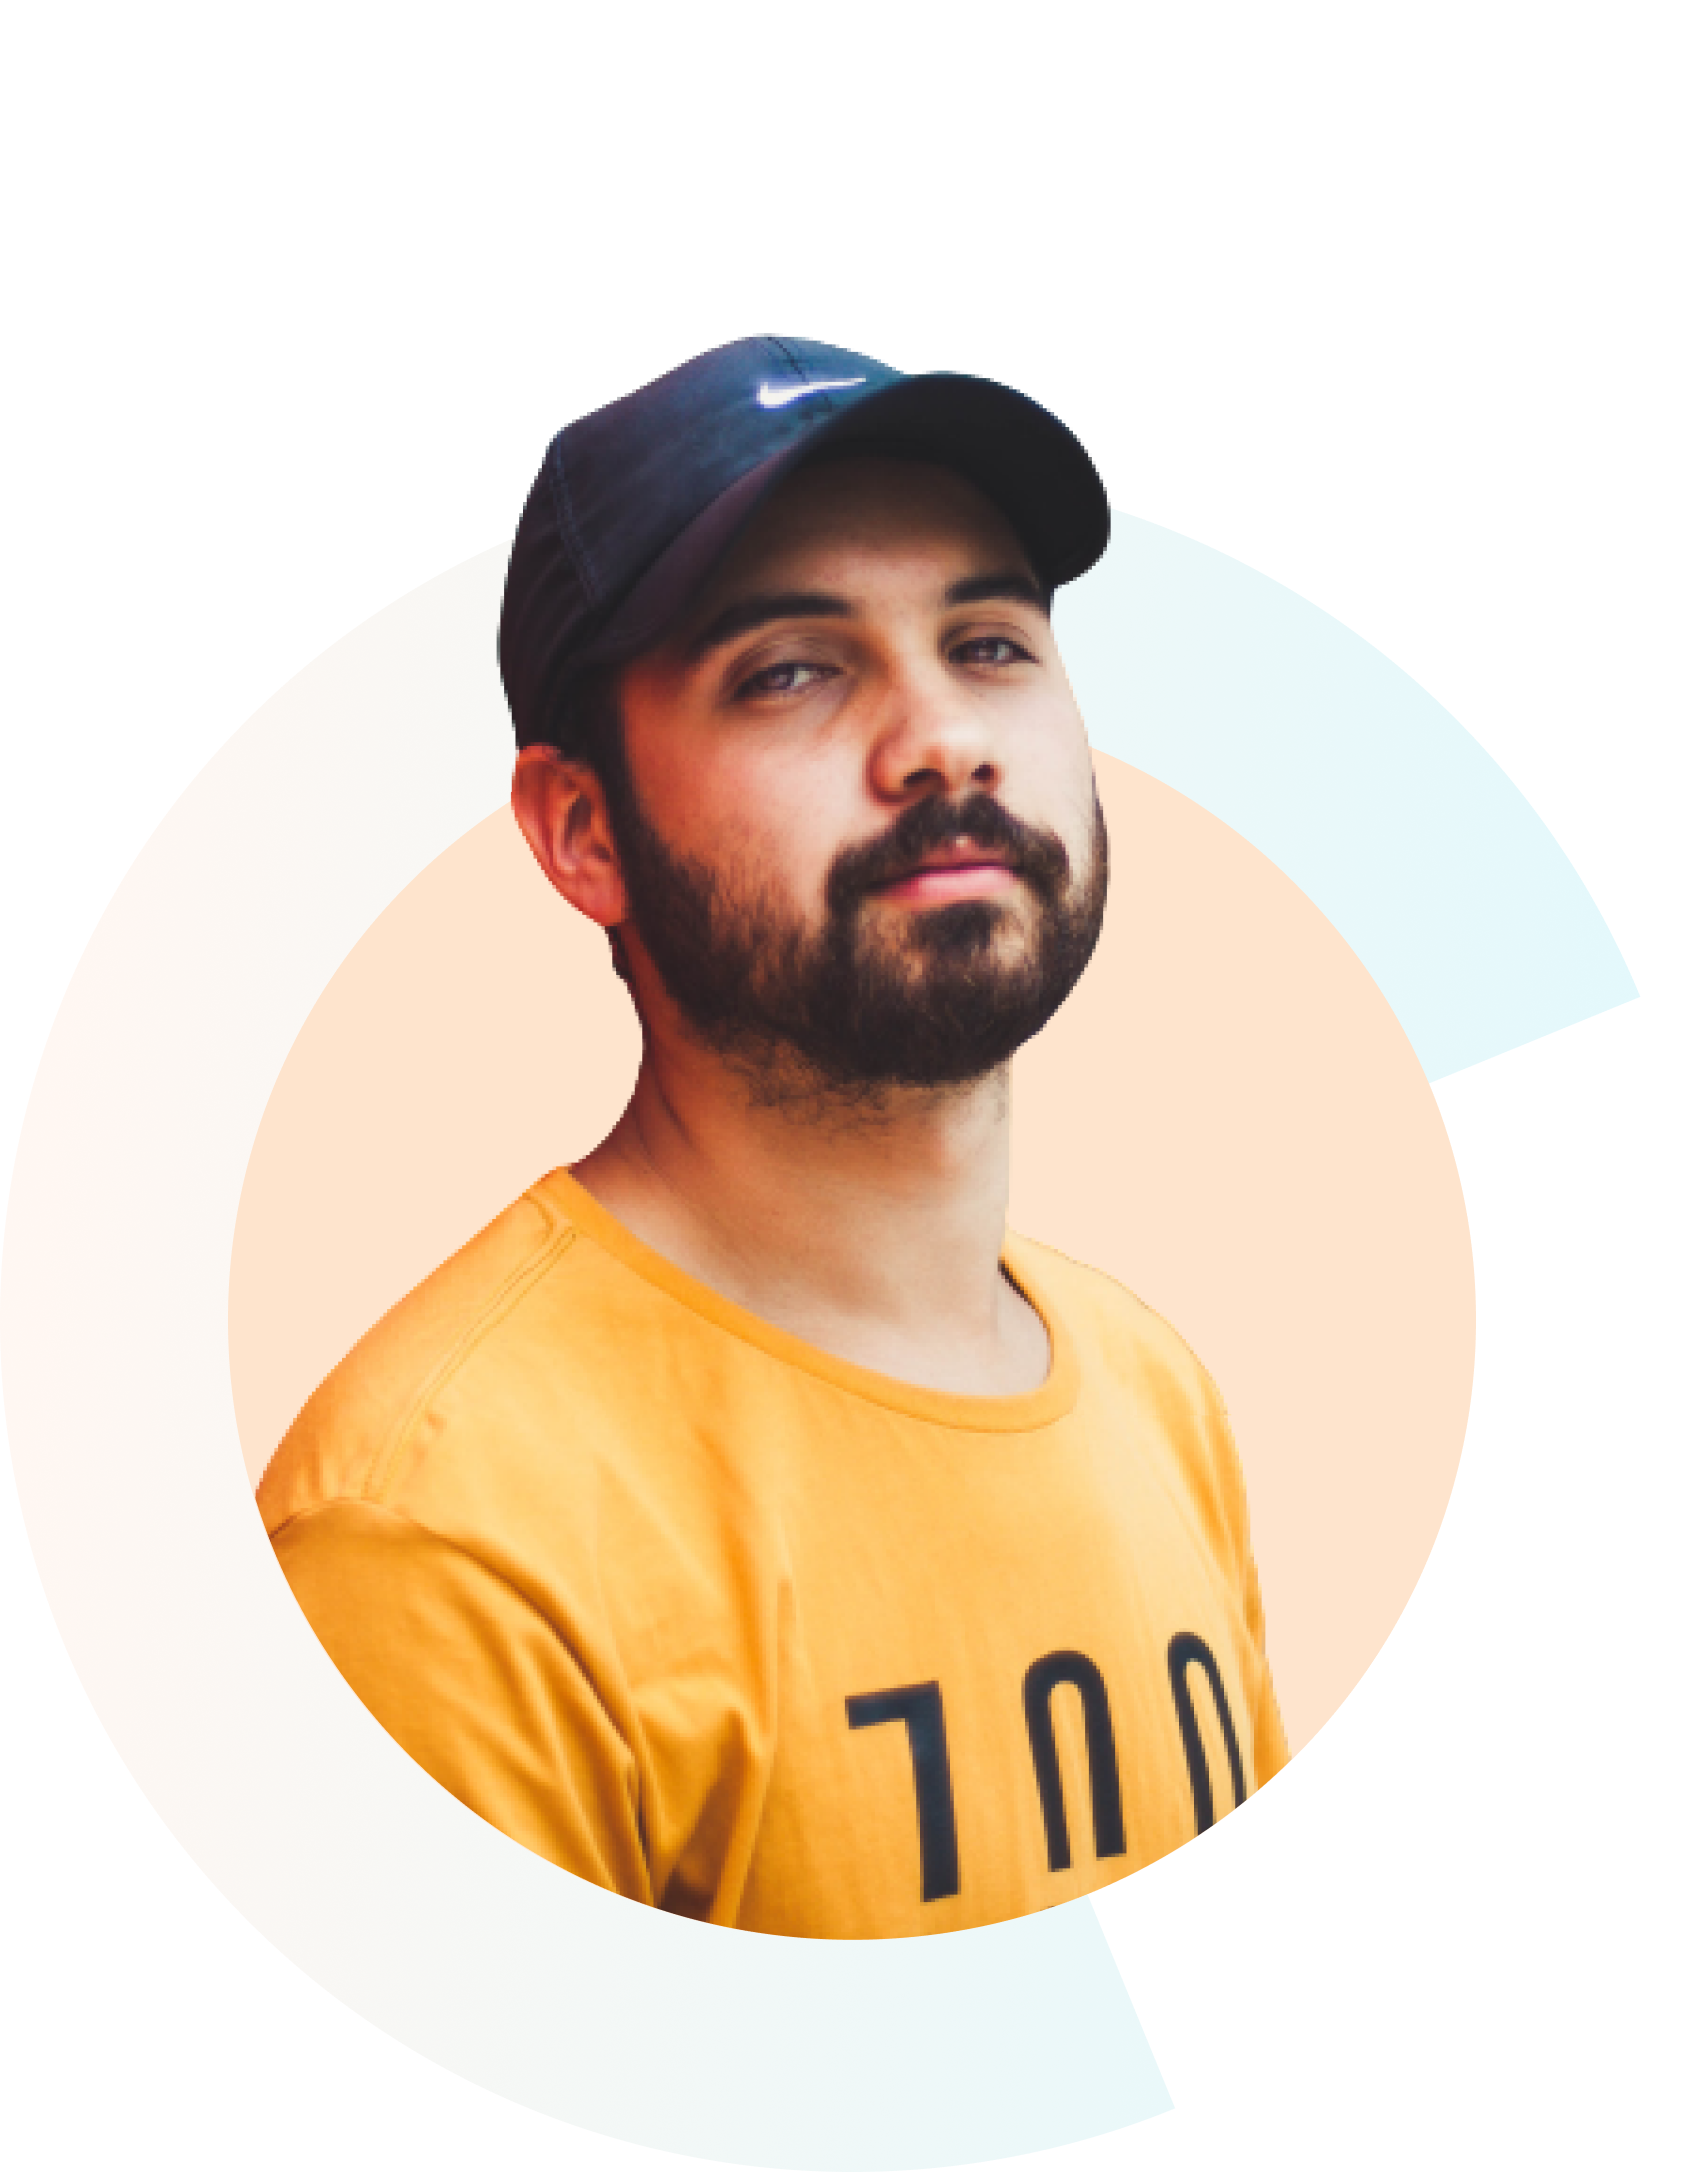
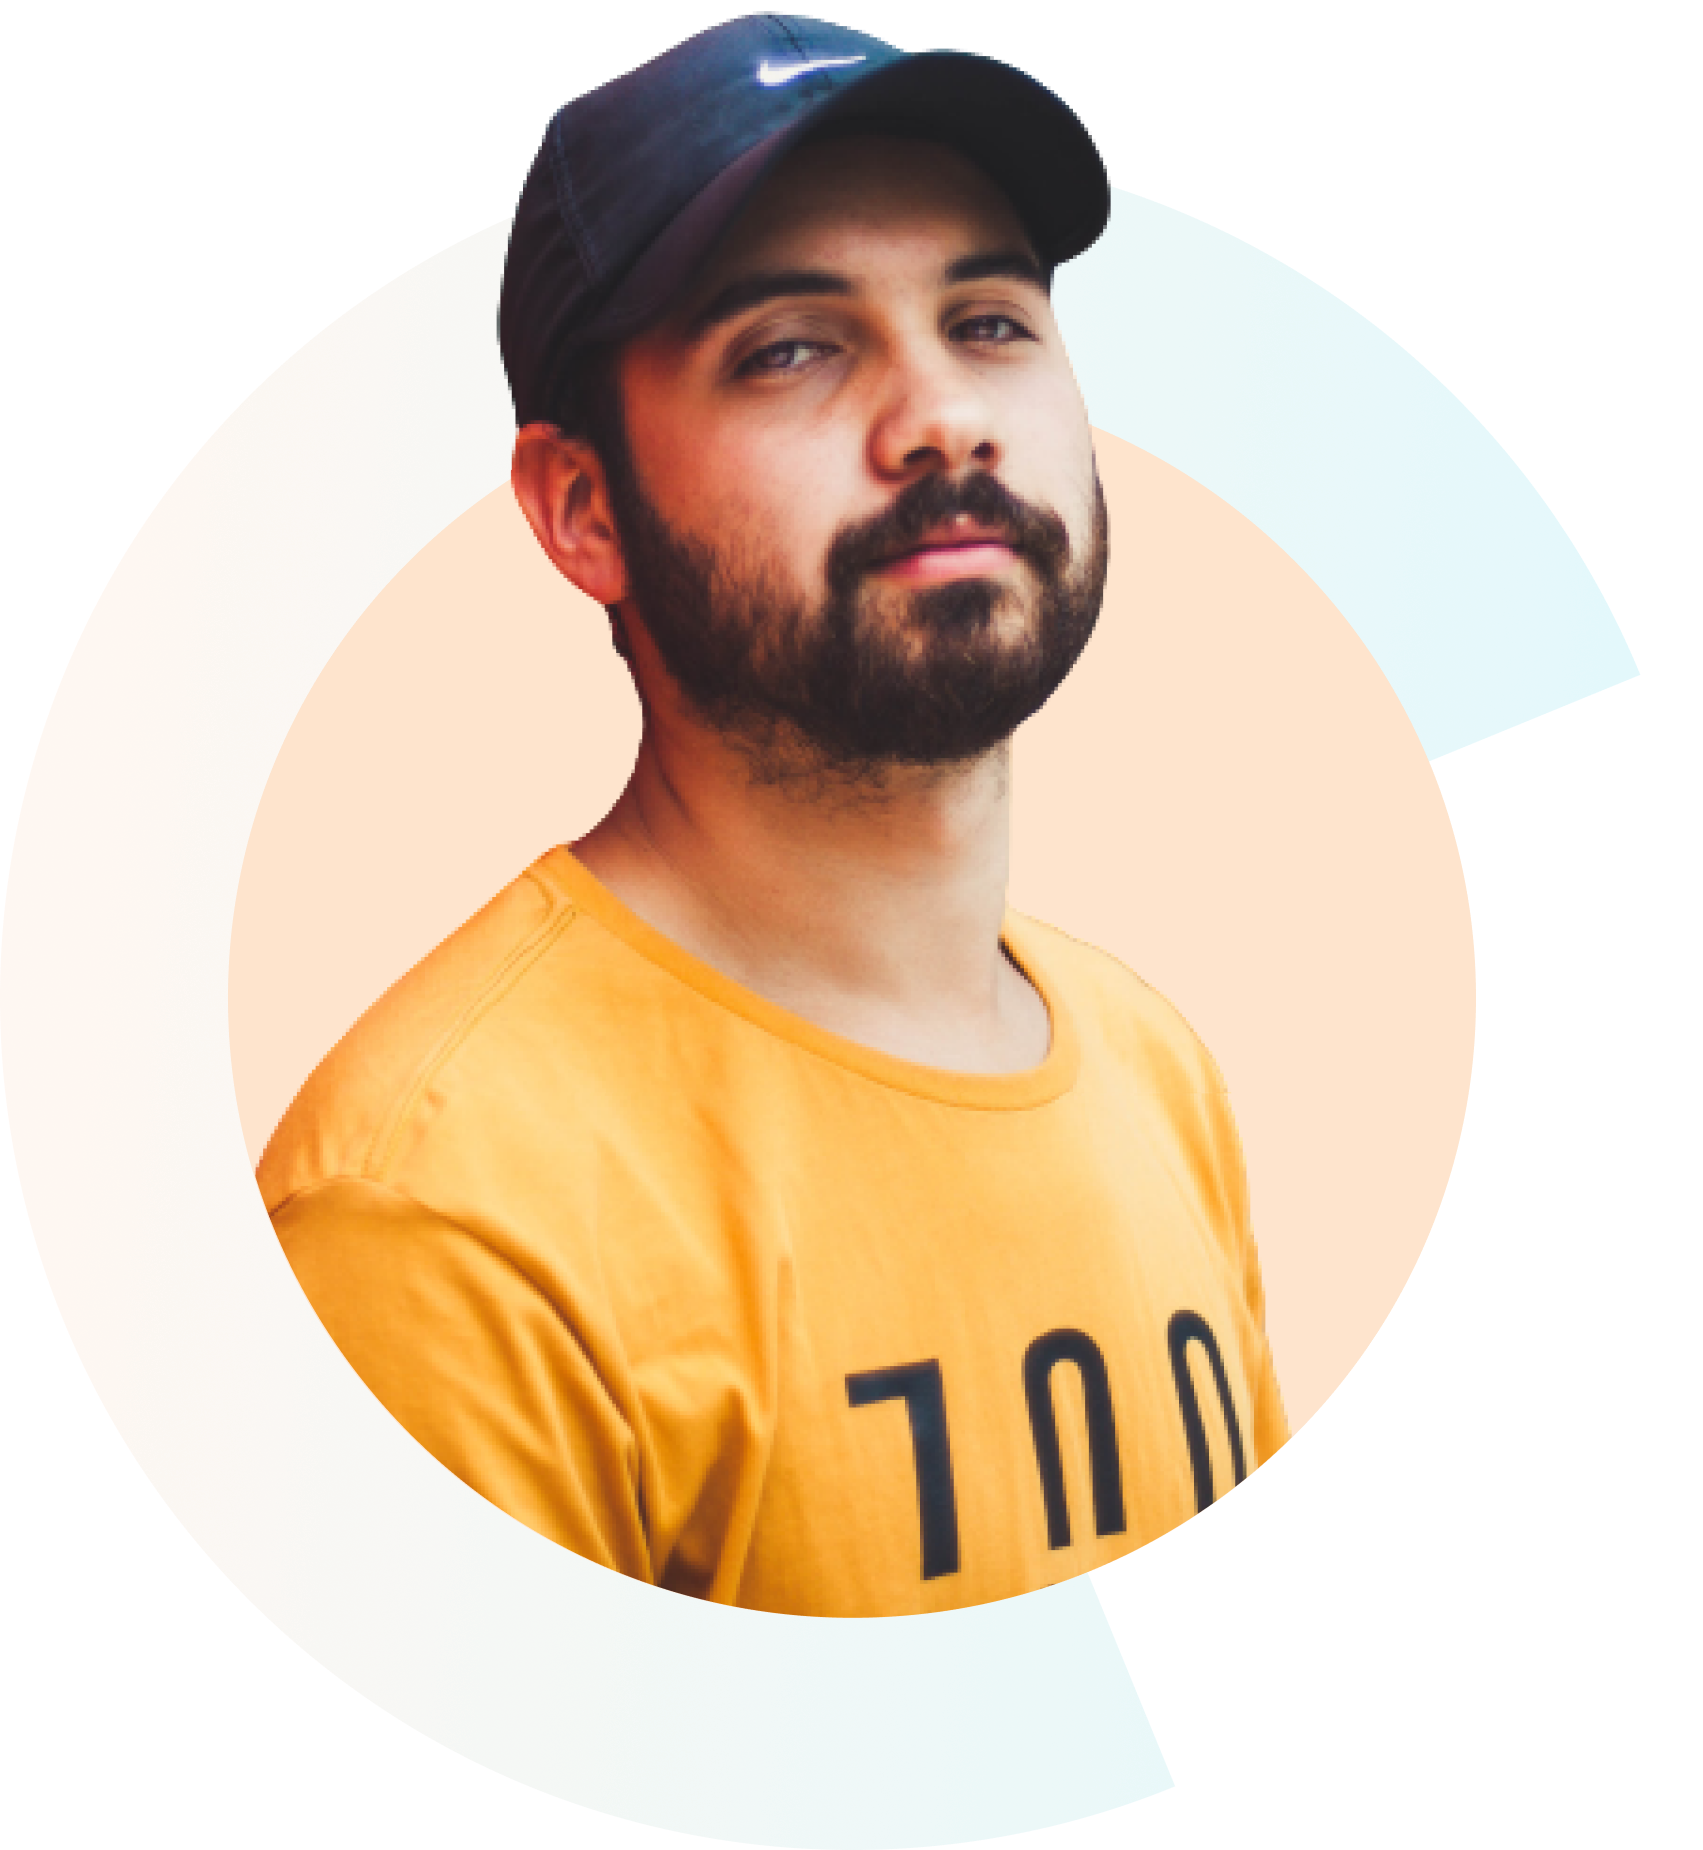
stay Focused on mission Section

diff --git a/css/style.css b/css/style.css
@@ -1,0 +1,64 @@
+@import url('https://fonts.googleapis.com/css2?family=Poppins:ital,wght@0,100;0,200;0,300;0,400;0,500;0,600;1,100;1,200;1,300;1,400;1,500&display=swap');
+
+*{
+    margin: 0px;
+    padding: 0px;
+    text-decoration: none;
+}
+section{
+    padding: 50px 0;
+}
+.container{
+    width: 1140px;
+    margin: 0px auto;
+}
+.row{
+    width: 100%;
+    display: flex;
+    align-items: center;
+    flex-direction: row;
+}
+.col{
+    width: 48%;
+    padding: 2%;
+}
+
+                    /*  Stay Focused on Mission 2022  */
+
+
+.img_col{
+    text-align: center;
+}
+#stayFocused img{
+    width: 80%;
+}
+.h_stay{
+    border-left: 3px solid #FF5959;
+    padding: 0 15px;
+    font-size: 40px;
+    color: #333333;
+    margin: 20px 0;
+}
+.stay > .mission {
+    color: #FFAD5A !important;
+}
+#stayFocused p{
+    font-family: 'Poppins', sans-serif;
+    font-size: 18px;
+    color: #333333;
+}
+.btn{
+    margin: 30px 0;
+}
+.btn > a{
+    font-family: 'poppins', sans-serif;
+    background: #FF5959;
+    padding: 10px 40px;
+    border-radius: 4px;
+    text-transform: capitalize;
+    font-size: 18px;
+    color: #ffffff;
+}
+.scroltext{
+    font-size: 16px !important;
+}

diff --git a/index.html b/index.html
@@ -10,7 +10,29 @@
 </head>
 
 <body>
-
+    <!-- Stay Focused on Mission 2022 -->
+    <section id="stayFocused">
+        <div class="container">
+            <div class="row">
+                <div class="col">
+                    <div class="h_stay">
+                        <h1 class="stay">Stay Focused on<br>
+                            <span class="mission">Mission 2022</span>
+                        </h1>
+                    </div>
+                    <p>Lorem ipsum dolor sit amet, usu cu esse possit referrentur, at eam falli deterruisset. No duo
+                        populo animal noluisse, enim</p>
+                    <div class="btn">
+                        <a href="#">Explore Now </a>
+                    </div>
+                    <p class="scroltext">Scroll down to explore more about us </p>
+                </div>
+                <div class="col img_col">
+                    <img src="./images/person/person-0.png" alt="First persion Images" class="headperson">
+                </div>
+            </div>
+        </div>
+    </section>
 </body>
 
 </html>
